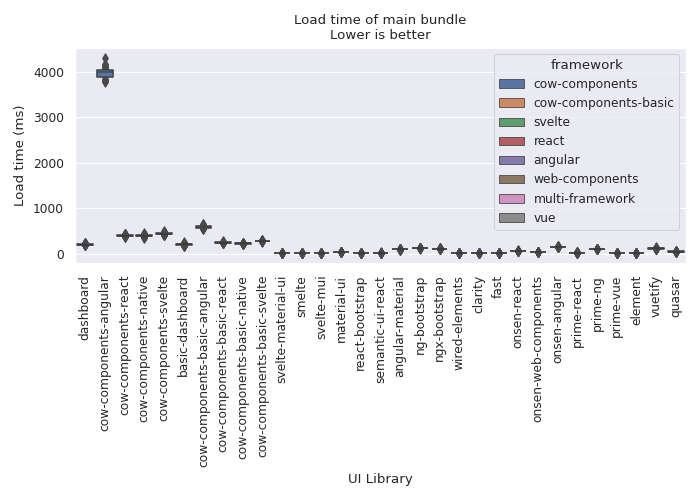
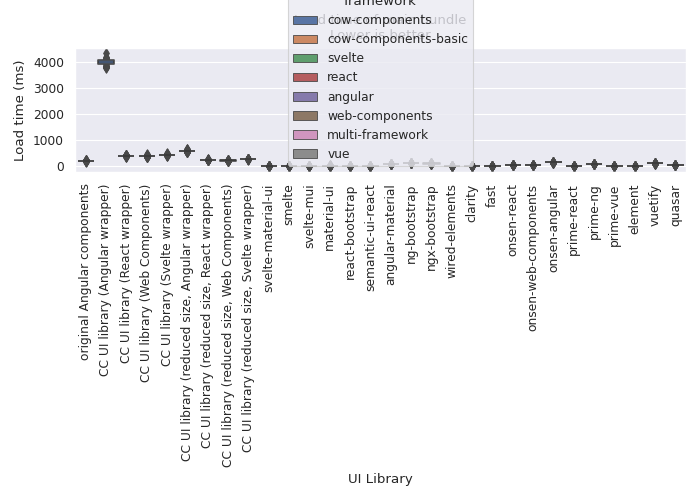
rename some bundles

diff --git a/paper/plots/data/get_data.py b/paper/plots/data/get_data.py
@@ -165,6 +165,25 @@ class Data:
         return bundles
 
 
+BUNDLE_RENAME_MAP = {
+    "dashboard": "original Angular components",
+    "cow-components-native": "CC UI library (Web Components)",
+    "cow-components-angular": "CC UI library (Angular wrapper)",
+    "cow-components-react": "CC UI library (React wrapper)",
+    "cow-components-svelte": "CC UI library (Svelte wrapper)",
+    "cow-components-basic-native": "CC UI library (reduced size, Web Components)",
+    "cow-components-basic-angular": "CC UI library (reduced size, Angular wrapper)",
+    "cow-components-basic-react": "CC UI library (reduced size, React wrapper)",
+    "cow-components-basic-svelte": "CC UI library (reduced size, Svelte wrapper)",
+}
+
+
+def rewrite_bundle(bundle: str) -> str:
+    if bundle in BUNDLE_RENAME_MAP:
+        return BUNDLE_RENAME_MAP[bundle]
+    return bundle
+
+
 def create_dataframe(
     data: Data, get_data: Callable[[BundleData], Any], bundle_label: str, data_label: str, framework_label: str
 ) -> pd.DataFrame:
@@ -175,7 +194,7 @@ def create_dataframe(
             continue
         data_list = data if type(data) == list else [data]
         for data_part in data_list:
-            obj[bundle_label].append(bundle.bundle)
+            obj[bundle_label].append(rewrite_bundle(bundle.bundle))
             obj[framework_label].append(bundle.framework)
             obj[data_label].append(data_part)
 
@@ -199,7 +218,11 @@ def create_plot(
     dodge: bool = False,
 ) -> pd.DataFrame:
     sns = get_sns()
-    df = data_frame if data_frame is not None else create_dataframe(data, get_data, bundle_label, data_label, framework_label)
+    df = (
+        data_frame
+        if data_frame is not None
+        else create_dataframe(data, get_data, bundle_label, data_label, framework_label)
+    )
     if figsize:
         plt.figure(figsize=figsize)
     if rotate_labels:

diff --git a/paper/plots/generators/render_time/all_plot.py b/paper/plots/generators/render_time/all_plot.py
@@ -1,4 +1,4 @@
-from data import get_data, create_plot
+from data import get_data, create_plot, rewrite_bundle
 from figures import write_plot
 import pandas as pd
 
@@ -14,7 +14,7 @@ def generate_render_time_all_plot():
                 continue
             for component_count in bundle.render_time.component_time_map[component_name]:
                 for measurement in bundle.render_time.component_time_map[component_name][component_count].times:
-                    obj["UI Library"].append(bundle.bundle)
+                    obj["UI Library"].append(rewrite_bundle(bundle.bundle))
                     obj["component"].append(component_name)
                     obj["Render time (ms)"].append(int(measurement))
                     obj["framework"].append(bundle.framework)
@@ -32,8 +32,8 @@ def generate_render_time_all_plot():
                 "UI Library",
                 "Render time (ms)",
                 rotate_labels=True,
-                extra_dict={"hue": "framework", "linewidth": 0.1,"showfliers": True},
-                figsize=(8,6),
+                extra_dict={"hue": "framework", "linewidth": 0.1, "showfliers": True},
+                figsize=(8, 6),
                 data_frame=df[df["Count"] == count][df["component"] == component],
             )
             write_plot(ax, f"render-time-all-{count}-{component}")

diff --git a/paper/plots/generators/render_time/cow_plot.py b/paper/plots/generators/render_time/cow_plot.py
@@ -1,4 +1,4 @@
-from data import get_data, create_plot
+from data import get_data, create_plot, rewrite_bundle
 from figures import write_plot
 import pandas as pd
 
@@ -17,7 +17,7 @@ def generate_render_time_cow_plot():
                 continue
             for component_count in bundle.render_time.component_time_map[component_name]:
                 for measurement in bundle.render_time.component_time_map[component_name][component_count].times:
-                    obj["UI Library"].append(bundle.bundle)
+                    obj["UI Library"].append(rewrite_bundle(bundle.bundle))
                     obj["component"].append(component_name)
                     obj["Render time (ms)"].append(int(measurement))
                     obj["framework"].append(bundle.framework)
@@ -38,6 +38,6 @@ def generate_render_time_cow_plot():
             figsize=(7, 5),
             data_frame=df[df["Count"] == count],
             rotation=45,
-            dodge=True
+            dodge=True,
         )
         write_plot(ax, f"render-time-cow-{count}")

diff --git a/paper/plots/generators/page_load/first_paint.py b/paper/plots/generators/page_load/first_paint.py
@@ -1,6 +1,6 @@
 import pandas as pd
 
-from data import get_data, create_plot, create_dataframe
+from data import get_data, create_plot, rewrite_bundle
 from figures import write_plot
 
 
@@ -13,11 +13,11 @@ def generate_first_paint_plot():
         if not bundle.page_load_time:
             continue
         for value in bundle.page_load_time.first_paint.values:
-            obj["UI Library"].append(bundle.bundle)
+            obj["UI Library"].append(rewrite_bundle(bundle.bundle))
             obj["Metric"].append("First Paint")
             obj["Time (ms)"].append(value)
         for value in bundle.page_load_time.first_contentful_paint.values:
-            obj["UI Library"].append(bundle.bundle)
+            obj["UI Library"].append(rewrite_bundle(bundle.bundle))
             obj["Metric"].append("First Contentful Paint")
             obj["Time (ms)"].append(value)
 

diff --git a/paper/plots/generators/render_time/all_plot_big.py b/paper/plots/generators/render_time/all_plot_big.py
@@ -1,4 +1,4 @@
-from data import get_data, create_plot
+from data import get_data, create_plot, rewrite_bundle
 from figures import write_plot
 import pandas as pd
 
@@ -14,7 +14,7 @@ def generate_render_time_all_plot_big():
                 continue
             for component_count in bundle.render_time.component_time_map[component_name]:
                 for measurement in bundle.render_time.component_time_map[component_name][component_count].times:
-                    obj["UI Library"].append(bundle.bundle)
+                    obj["UI Library"].append(rewrite_bundle(bundle.bundle))
                     obj["component"].append(component_name)
                     obj["Render time (ms)"].append(int(measurement))
                     obj["framework"].append(bundle.framework)

diff --git a/paper/plots/data/__init__.py b/paper/plots/data/__init__.py
@@ -1,1 +1,1 @@
-from .get_data import get_data, create_plot, create_dataframe
+from .get_data import get_data, create_plot, create_dataframe, rewrite_bundle
